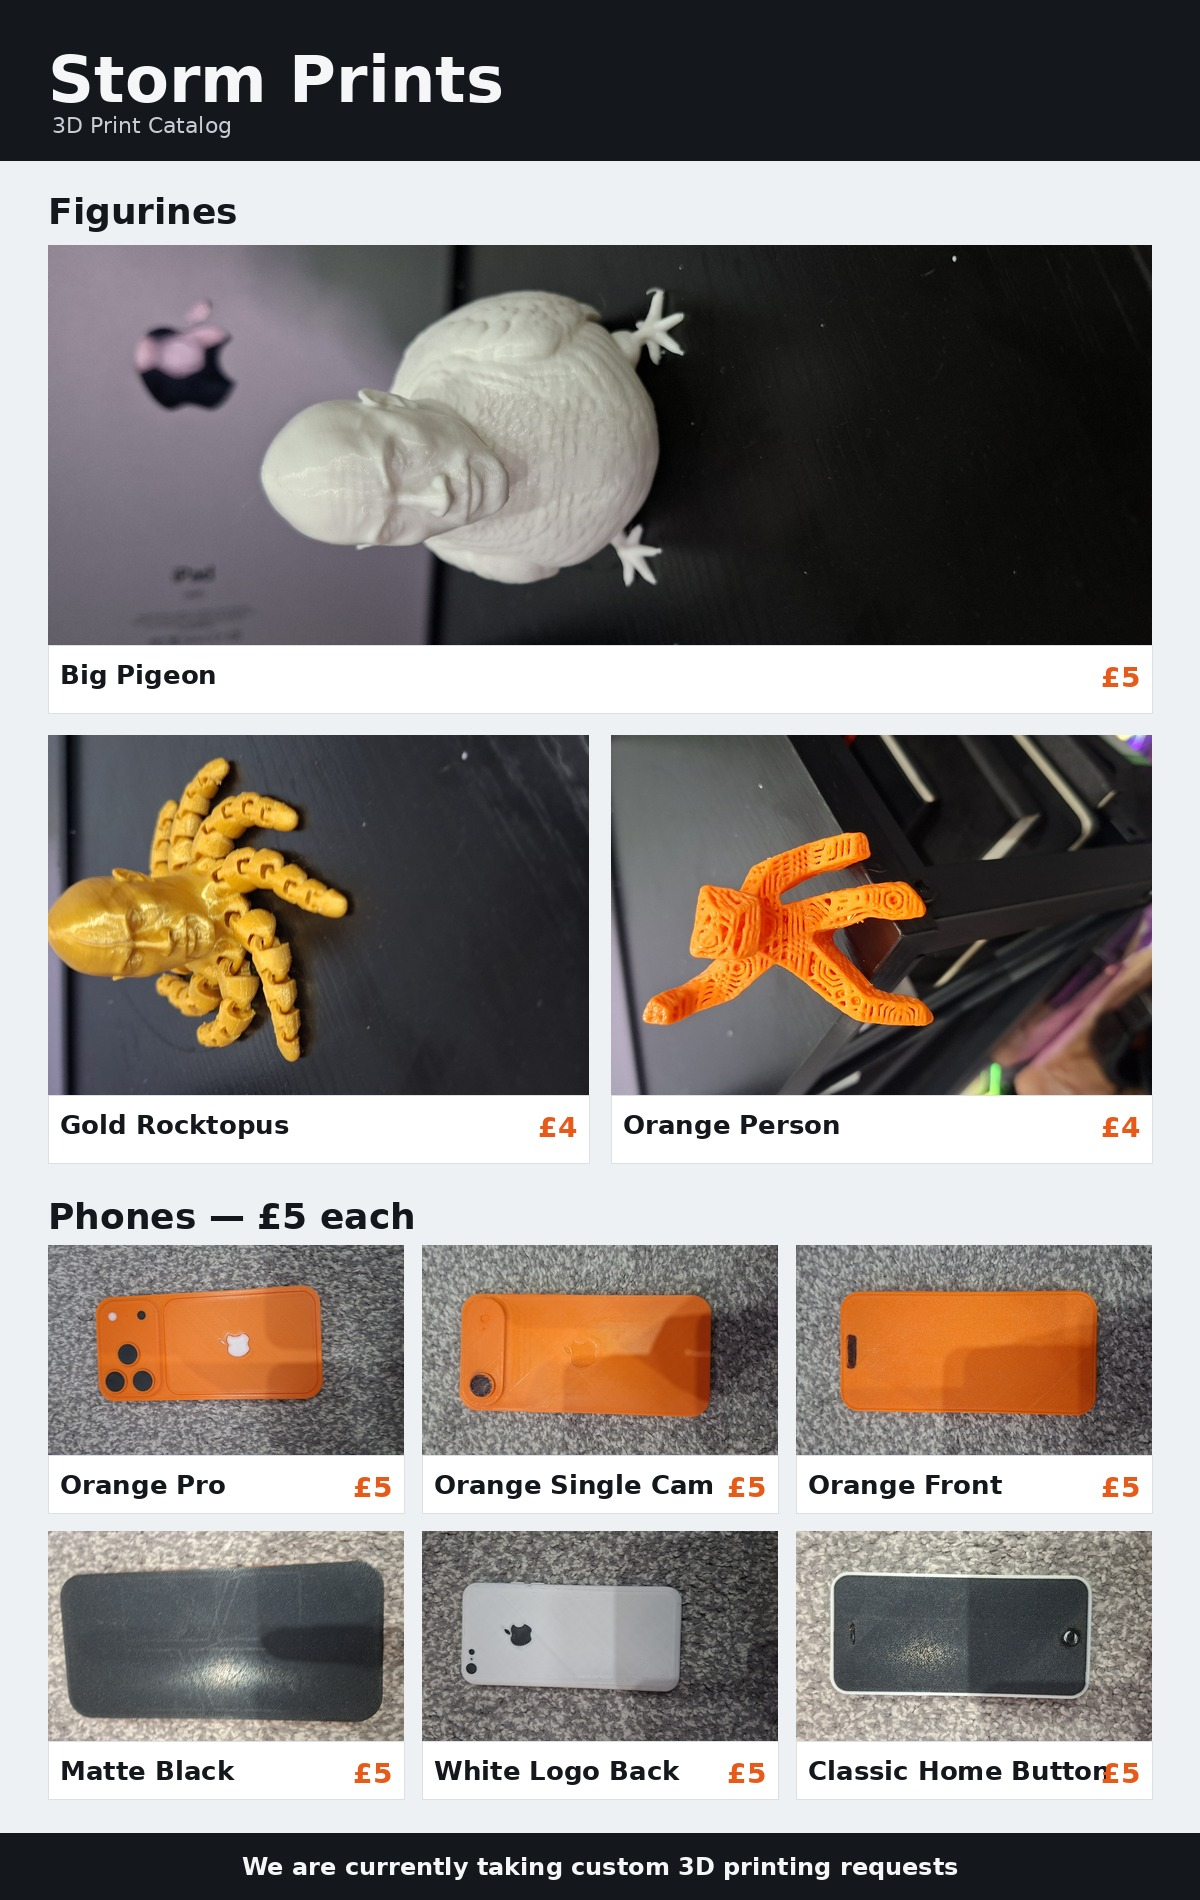
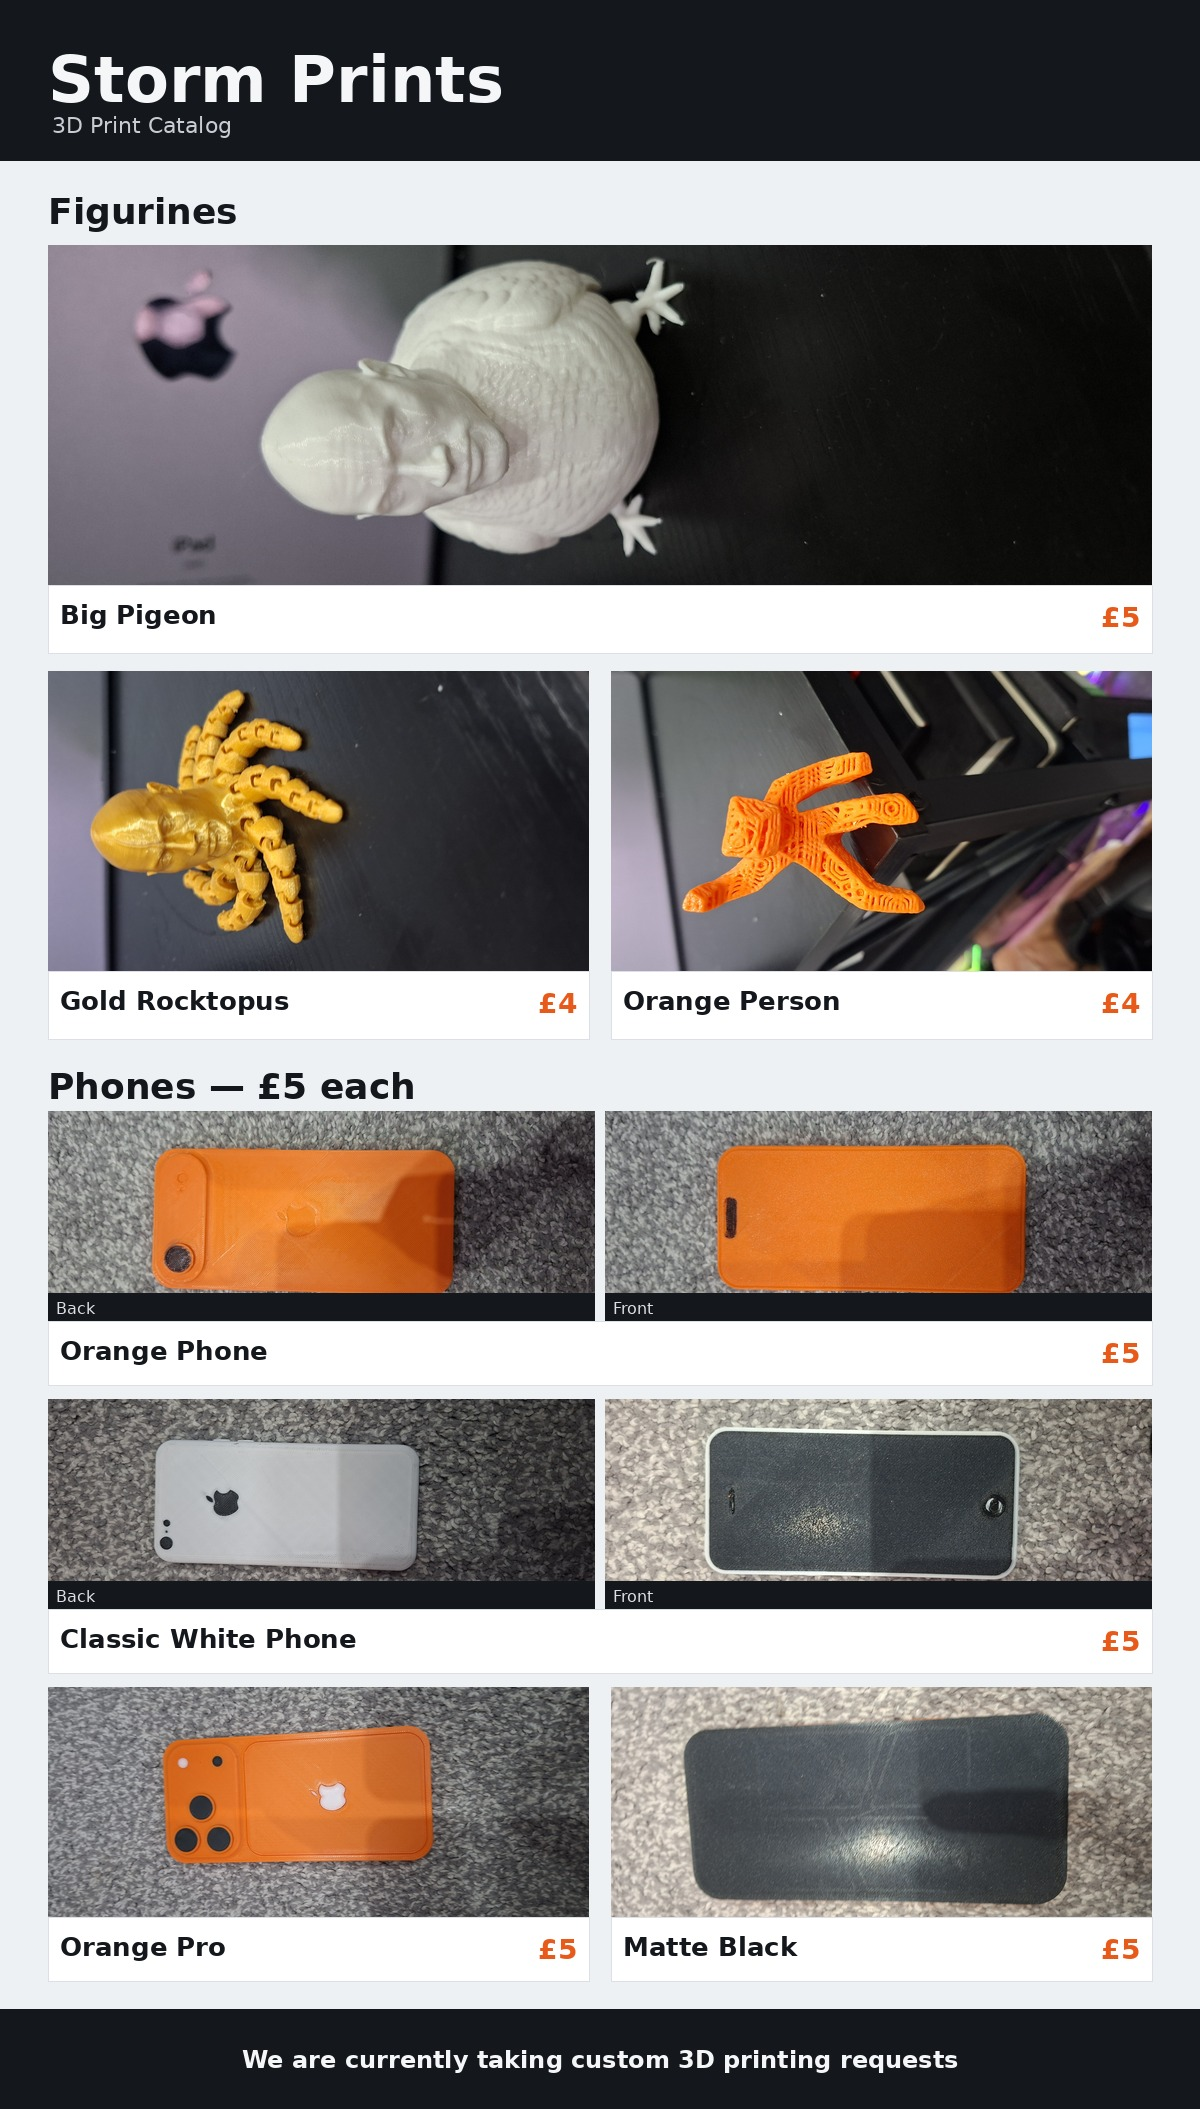
Fix phone catalog: show front/back as one product
Group orange and classic white phone photos into single £5 listings instead of separate SKUs.

diff --git a/3d-prints-catalog/index.html b/3d-prints-catalog/index.html
@@ -72,7 +72,41 @@
         <p>Dummy handsets and props — £5 each.</p>
       </div>
 
-      <div class="phone-rail">
+      <div class="phone-rail phone-rail--paired">
+        <article class="phone phone--pair reveal">
+          <div class="phone__shots">
+            <figure>
+              <img src="images/phone-orange-single.jpg" alt="Orange phone back" width="1000" height="750" loading="lazy" />
+              <figcaption>Back</figcaption>
+            </figure>
+            <figure>
+              <img src="images/phone-orange-front.jpg" alt="Orange phone front" width="1000" height="750" loading="lazy" />
+              <figcaption>Front</figcaption>
+            </figure>
+          </div>
+          <div class="phone__meta">
+            <h3>Orange Phone</h3>
+            <p>Front and back of the same print</p>
+            <p class="price">£5</p>
+          </div>
+        </article>
+        <article class="phone phone--pair reveal">
+          <div class="phone__shots">
+            <figure>
+              <img src="images/phone-white-logo.jpg" alt="Classic white phone back" width="1000" height="750" loading="lazy" />
+              <figcaption>Back</figcaption>
+            </figure>
+            <figure>
+              <img src="images/phone-classic-home.jpg" alt="Classic white phone front" width="1000" height="750" loading="lazy" />
+              <figcaption>Front</figcaption>
+            </figure>
+          </div>
+          <div class="phone__meta">
+            <h3>Classic White Phone</h3>
+            <p>Front and back of the same print</p>
+            <p class="price">£5</p>
+          </div>
+        </article>
         <article class="phone reveal">
           <img src="images/phone-orange-pro.jpg" alt="Orange Pro phone replica with triple camera island" width="1000" height="750" loading="lazy" />
           <div class="phone__meta">
@@ -82,42 +116,10 @@
           </div>
         </article>
         <article class="phone reveal">
-          <img src="images/phone-orange-single.jpg" alt="Orange phone replica back with single camera" width="1000" height="750" loading="lazy" />
-          <div class="phone__meta">
-            <h3>Orange Single Cam</h3>
-            <p>Raised camera bump, logo back</p>
-            <p class="price">£5</p>
-          </div>
-        </article>
-        <article class="phone reveal">
-          <img src="images/phone-orange-front.jpg" alt="Orange phone replica front face" width="1000" height="750" loading="lazy" />
-          <div class="phone__meta">
-            <h3>Orange Front Face</h3>
-            <p>Modern front with island cutout</p>
-            <p class="price">£5</p>
-          </div>
-        </article>
-        <article class="phone reveal">
           <img src="images/phone-matte-black.jpg" alt="Matte black 3D-printed phone blank" width="1000" height="750" loading="lazy" />
           <div class="phone__meta">
             <h3>Matte Black</h3>
             <p>Textured blank handset</p>
-            <p class="price">£5</p>
-          </div>
-        </article>
-        <article class="phone reveal">
-          <img src="images/phone-white-logo.jpg" alt="White phone replica with black Apple logo" width="1000" height="750" loading="lazy" />
-          <div class="phone__meta">
-            <h3>White Logo Back</h3>
-            <p>Classic dual-tone logo print</p>
-            <p class="price">£5</p>
-          </div>
-        </article>
-        <article class="phone reveal">
-          <img src="images/phone-classic-home.jpg" alt="White and black classic phone with home button" width="1000" height="750" loading="lazy" />
-          <div class="phone__meta">
-            <h3>Classic Home Button</h3>
-            <p>White frame, black face, home button</p>
             <p class="price">£5</p>
           </div>
         </article>

diff --git a/3d-prints-catalog/styles.css b/3d-prints-catalog/styles.css
@@ -263,13 +263,6 @@ img {
   }
 }
 
-@media (min-width: 980px) {
-  .phone-rail {
-    grid-template-columns: repeat(3, 1fr);
-    gap: 1.5rem;
-  }
-}
-
 .phone {
   display: grid;
   gap: 0.75rem;
@@ -285,6 +278,33 @@ img {
 
 .phone:hover img {
   transform: scale(1.02);
+}
+
+.phone--pair {
+  grid-column: 1 / -1;
+}
+
+.phone__shots {
+  display: grid;
+  grid-template-columns: 1fr 1fr;
+  gap: 0.65rem;
+}
+
+.phone__shots figure {
+  margin: 0;
+  position: relative;
+}
+
+.phone__shots figcaption {
+  position: absolute;
+  left: 0;
+  right: 0;
+  bottom: 0;
+  padding: 0.35rem 0.55rem;
+  background: rgba(20, 23, 28, 0.82);
+  color: #e8ebf0;
+  font-size: 0.8rem;
+  font-weight: 500;
 }
 
 .phone__meta h3 {
